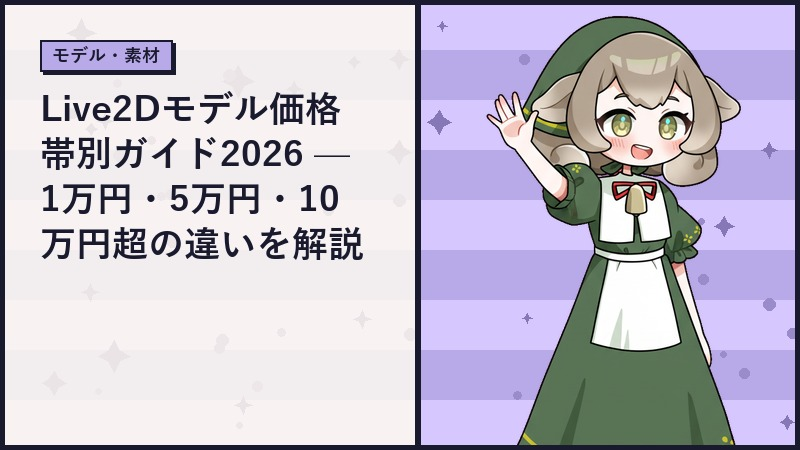
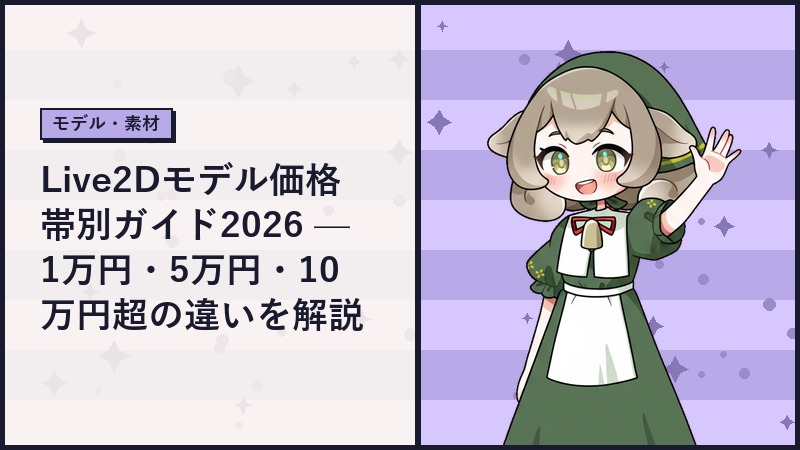
fix: サムネイル調整（左向き・センター配置・下寄せ）
- メリノちゃんを左向きに反転
- バッジ+タイトルを縦センター配置に変更
- メリノちゃんを30px下にオフセット（地面感）

Changed region(s): [[0.5938, 0.0311, 0.9375, 0.9956], [0.0312, 0.0622, 0.4688, 0.7467], [0.7812, 0.9333, 0.8125, 0.9644]]

diff --git a/scripts/generate_thumbnails.py b/scripts/generate_thumbnails.py
@@ -240,20 +240,17 @@ def generate_thumbnail(title: str, category: str, slug: str,
     # ── 縦区切り線 ────────────────────────────────────────
     draw.rectangle([SPLIT - BORDER, 0, SPLIT, H], fill=DARK)
 
-    # ── カテゴリバッジ ────────────────────────────────────
-    draw_badge(draw, PAD, PAD, cat_label, col, f(18))
-
-    # ── タイトル（左ゾーンに収める） ──────────────────────
-    avail_w = SPLIT - BORDER - PAD * 2
-    title_y = PAD + 50
+    # ── テキストレイアウト計算（センター配置） ────────────
+    BADGE_H   = 35          # バッジ高さ概算
+    BADGE_GAP = 18          # バッジ〜タイトル間隔
+    avail_w   = SPLIT - BORDER - PAD * 2
 
     def fit_title(size, max_lines):
         fnt   = f(size)
         lh    = int(size * 1.25)
-        words = list(title)
         lines = []
         cur   = ""
-        for ch in words:
+        for ch in title:
             cand = cur + ch
             bb   = draw.textbbox((0, 0), cand, font=fnt)
             if (bb[2] - bb[0]) <= avail_w:
@@ -264,8 +261,7 @@ def generate_thumbnail(title: str, category: str, slug: str,
                 cur = ch
         if cur:
             lines.append(cur)
-        total_h = title_y + len(lines) * lh
-        if len(lines) <= max_lines and total_h <= H - PAD - 10:
+        if len(lines) <= max_lines:
             return lines, fnt, lh
         return None
 
@@ -275,20 +271,32 @@ def generate_thumbnail(title: str, category: str, slug: str,
         if result:
             break
 
-    if result:
-        lines, title_fnt, lh = result
-        ty = title_y
-        for line in lines:
-            draw.text((PAD, ty), line, font=title_fnt, fill=DARK)
-            ty += lh
+    lines, title_fnt, lh = result or ([""], f(24), 30)
+    title_block_h = len(lines) * lh
 
-    # ── メリノちゃん（右ゾーン中央下寄せ） ───────────────
+    # バッジ + ギャップ + タイトルを縦センター
+    total_h  = BADGE_H + BADGE_GAP + title_block_h
+    start_y  = (H - total_h) // 2
+
+    # ── カテゴリバッジ ────────────────────────────────────
+    draw_badge(draw, PAD, start_y, cat_label, col, f(18))
+
+    # ── タイトル ──────────────────────────────────────────
+    ty = start_y + BADGE_H + BADGE_GAP
+    for line in lines:
+        draw.text((PAD, ty), line, font=title_fnt, fill=DARK)
+        ty += lh
+
+    # ── メリノちゃん（左向き・右ゾーン中央・下に少しはみ出し） ──
     merino = load_merino(pose_name, H - 10)
     if merino:
+        # 左向きに反転
+        merino = merino.transpose(Image.Transpose.FLIP_LEFT_RIGHT)
         right_zone_w = W - SPLIT
         mx = SPLIT + (right_zone_w - merino.width) // 2
         mx = max(mx, SPLIT + 5)
-        my = H - merino.height - 5
+        # 下に30px余分にはみ出させて「地面に立っている」感
+        my = H - merino.height + 30
         img.paste(merino, (mx, my), merino)
 
     # ── 外枠 ──────────────────────────────────────────────
